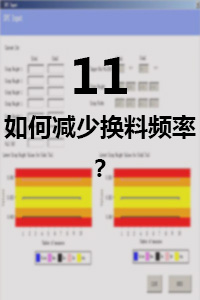
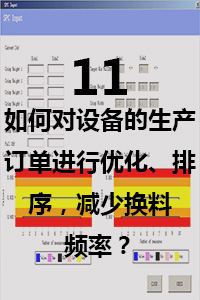
v4

diff --git a/html/b.html b/html/b.html
@@ -28,7 +28,7 @@
 		<article class="slide titles">
 			<div class="overlay">
 				<div class="home-title">
-					<h1>如何减少换料频率？</h1>
+					<h1>如何对设备的生产订单进行优化、排序，减少换料频率？</h1>
 					<h2>生产订单优化、排序及提高产能</h2>
 				</div>
 			</div>
